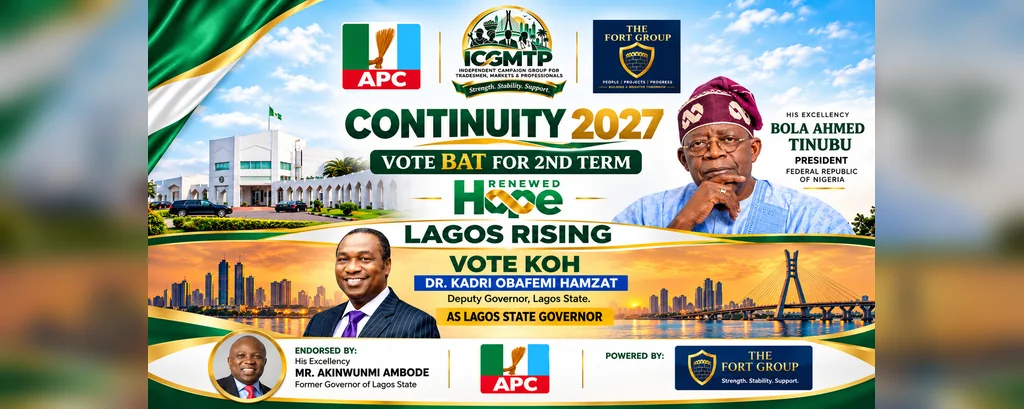
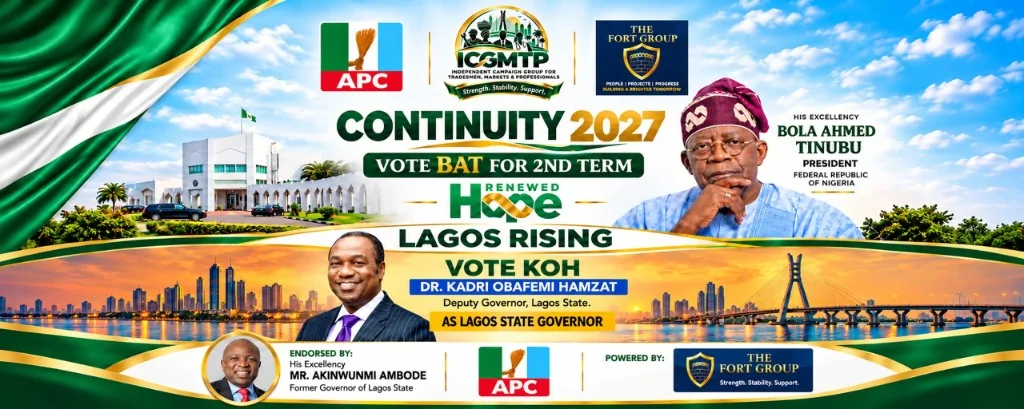
Put Continuity 2027 first and restore the single-row header nav.
Match the GitHub header layout with larger menu type, and lead the carousel with the Continuity flyer.

diff --git a/src/data/heroSlides.ts b/src/data/heroSlides.ts
@@ -59,17 +59,17 @@ export const HERO_FADE_MS = 800;
 export const heroSlides: HeroSlide[] = [
   {
     id: 'continuity-koh',
-    src: images.hero06,
-    alt: imageAlts.hero06,
+    src: images.hero06b,
+    alt: imageAlts.hero06b,
     width: 1024,
     height: 409,
     backdrop: '#003321',
-    objectFit: 'contain',
+    objectFit: 'cover',
     objectPosition: '50% 50%',
-    showFullArtwork: true,
     objectPositionMobile: '50% 50%',
-    title: 'Continuity 2027',
-    subtitle: 'Vote BAT for 2nd Term. Vote KOH as Lagos State Governor.',
+    kicker: 'Continuity 2027 · Vote BAT · Lagos Rising',
+    title: 'Vote KOH',
+    subtitle: 'Dr. Kadri Obafemi Hamzat for Governor of Lagos State.',
   },
   {
     id: 'people',
@@ -98,28 +98,6 @@ export const heroSlides: HeroSlide[] = [
     ],
   },
   {
-    id: 'brighter',
-    src: images.hero00,
-    alt: imageAlts.hero00,
-    width: 1024,
-    height: 409,
-    backdrop: '#041018',
-    objectFit: 'cover',
-    objectPosition: '50% 50%',
-    objectPositionMobile: '77% 45%',
-    kicker: 'Innovation · Investment · Opportunities',
-    title: 'A Brighter Lagos Tomorrow',
-    subtitle: 'Modern Infrastructure. Inclusive Growth. Real Opportunities. Stronger Communities.',
-    hits: [
-      {
-        id: 'join',
-        label: 'Be Part of the Future',
-        action: 'join',
-        box: { left: '4.4%', top: '76%', width: '21%', height: '11%' },
-      },
-    ],
-  },
-  {
     id: 'thrives',
     src: images.hero01,
     alt: imageAlts.hero01,
@@ -138,6 +116,28 @@ export const heroSlides: HeroSlide[] = [
         label: 'Join the Movement',
         action: 'join',
         box: { left: '45.6%', top: '79.2%', width: '16.8%', height: '10%' },
+      },
+    ],
+  },
+  {
+    id: 'brighter',
+    src: images.hero00,
+    alt: imageAlts.hero00,
+    width: 1024,
+    height: 409,
+    backdrop: '#041018',
+    objectFit: 'cover',
+    objectPosition: '50% 50%',
+    objectPositionMobile: '77% 45%',
+    kicker: 'Innovation · Investment · Opportunities',
+    title: 'A Brighter Lagos Tomorrow',
+    subtitle: 'Modern Infrastructure. Inclusive Growth. Real Opportunities. Stronger Communities.',
+    hits: [
+      {
+        id: 'join',
+        label: 'Be Part of the Future',
+        action: 'join',
+        box: { left: '4.4%', top: '76%', width: '21%', height: '11%' },
       },
     ],
   },

diff --git a/src/data/images.ts b/src/data/images.ts
@@ -14,6 +14,7 @@ export const images = {
   hero02: '/resources/hero-02.webp',
   hero03: '/resources/hero-03.webp',
   hero04: '/resources/hero-04.webp',
+  hero06b: '/resources/hero-06b.webp',
   markets: '/resources/sector-markets-800.webp',
   artisans: '/resources/sector-artisans-800.webp',
   professionals: '/resources/sector-professionals-800.webp',
@@ -45,6 +46,8 @@ export const imageAlts = {
   hero02: 'Together for a Stronger Lagos — ICGMTP, APC and The Fort Group',
   hero03: 'Lagos Rising — Dr. Kadri Obafemi Hamzat for Governor of Lagos State',
   hero04: 'Continuity 2027 — President Bola Ahmed Tinubu campaign artwork',
+  hero06b:
+    'Continuity 2027 campaign flyer — APC, ICGMTP and The Fort Group; Vote BAT for 2nd term; Lagos Rising Vote KOH for Dr. Kadri Obafemi Hamzat as Lagos State Governor; endorsed by former Governor Akinwunmi Ambode',
   markets: 'Trader with a child at a produce market in Lekki, Lagos',
   artisans: 'Nigerian mechanic at work',
   professionals: 'Nigerian medical professional on duty',

diff --git a/src/index.css b/src/index.css
@@ -214,8 +214,8 @@ section[id], article[id], footer[id], #home, #home-lower { scroll-margin-top: 11
   display: flex;
   align-items: center;
   justify-content: flex-end;
-  gap: 20px;
-  font-size: 12px;
+  gap: 28px;
+  font-size: 15px;
   font-weight: 600;
   padding: 0;
 }
@@ -252,7 +252,7 @@ section[id], article[id], footer[id], #home, #home-lower { scroll-margin-top: 11
   background: var(--gold);
   color: #171d1a;
 }
-.goldCta { padding: 10px 16px; font-size: 12px; margin-left: 6px; min-height: 44px; }
+.goldCta { padding: 10px 16px; font-size: 14px; margin-left: 6px; min-height: 44px; }
 .goldPill { padding: 12px 18px; font-size: 13px; min-height: 44px; }
 .goldSmall { padding: 10px 16px; font-size: 12px; min-height: 44px; }
 .ghostPill {
@@ -1347,7 +1347,7 @@ main h1:focus-visible {
 .lgaLcdas li:last-child { border-bottom: 0; padding-bottom: 0; }
 
 @media (max-width: 1280px) {
-  .mainNav { gap: 14px; font-size: 11px; }
+  .mainNav { gap: 20px; font-size: 14px; }
 }
 
 @media (max-width: 1100px) {

diff --git a/src/data/goals.ts b/src/data/goals.ts
@@ -13,8 +13,8 @@ export const goals: Goal[] = [
   {
     id: 'reach',
     icon: 'users',
-    figure: '2.6M',
-    title: 'Mobilisation target',
+    figure: '3M',
+    title: 'Mobilization Target',
     detail: 'Stated reach goal across Lagos East — not an independently verified count',
   },
   {
